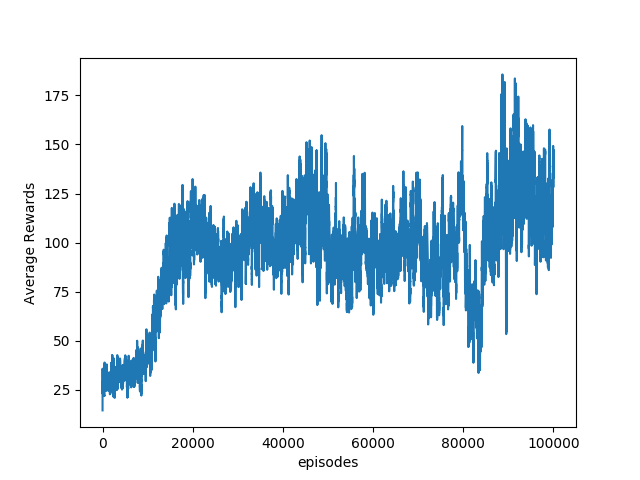
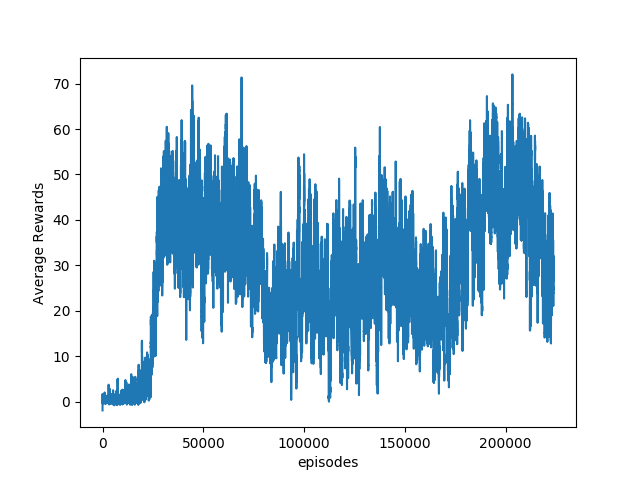
train with 5e6 step

diff --git a/pythonsection/atari_agent.py b/pythonsection/atari_agent.py
@@ -14,7 +14,7 @@ MIN_EXPERIENCES = 50000
 TARGET_UPDATE_PERIOD = 10000
 K = 5
 MAX_STEP=100
-np.random.seed(12345);
+np.random.seed(1);
 
 #Sever setup
 import socket   
@@ -137,7 +137,7 @@ def trainning():
     num_action_act = [0,0,0,0,0]
     gamma = 0.99
     batch_sz = 32 
-    num_episodes = 100000 
+    num_episodes = 1000000
     total_t = 0
     experience_replay_buffer = []
     episode_rewards = np.zeros(num_episodes)
@@ -148,7 +148,7 @@ def trainning():
 
     epsilon = 1.0
     epsilon_min = 0.1
-    epsilon_change = (epsilon - epsilon_min) / 500000#500000
+    epsilon_change = (epsilon - epsilon_min) / 1000000#500000
 
     model = DQN(K=K, input_shape=2 + 2*number_enemy, scope="model")
     target_model = DQN(K=K, input_shape=2 + 2*number_enemy, scope="target_model")
@@ -261,6 +261,8 @@ def trainning():
             if i % 50 ==0:
                 model.save(i)
             sys.stdout.flush()
+            if np.sum(num_action_act) > 5e6:
+                break
 
         plt.plot(last_100_avgs)
         plt.xlabel('episodes')
@@ -289,11 +291,11 @@ def testing():
         obs = env.reset()
         state = obs
         
-        for i in range(MIN_EXPERIENCES):
-            action = model.sample_action(state, 0.1)
+        for i in tqdm(range(MIN_EXPERIENCES)):
+            action = model.sample_action(state, 0.01)
             obs, reward, done, _, full_msg= env.step(action,full_msg)
-            time.sleep(0.5)
-            #print(obs)
+            #time.sleep(0.5)
+            print(action)
             if done == 1:
                 done = True
             else: 

diff --git a/pythonsection/env.py b/pythonsection/env.py
@@ -67,7 +67,7 @@ class env():
                         self.dead=1
                 if tile==1:
                         self.reward-=0
-                        self.reward+=(11-(15-self.state[0]/40))
+                        self.reward+=(11-(15-self.state[0]/40))/11
 
                 elif tile==2:
                         self.reward-=0
